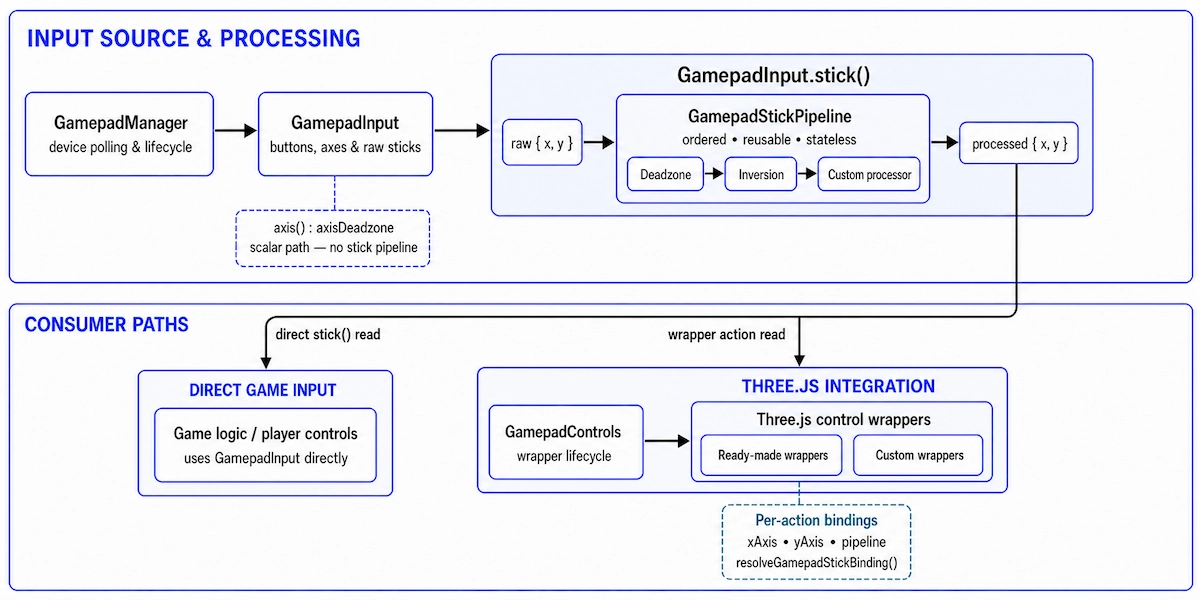
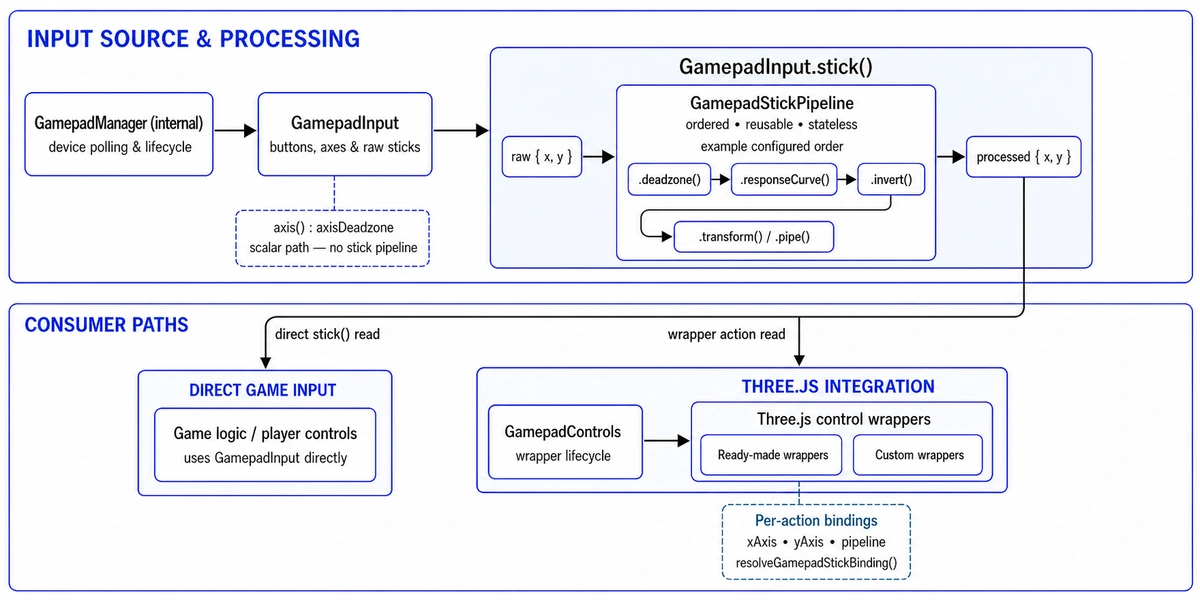
docs(readme): update architecture diagram and description

diff --git a/README.md b/README.md
@@ -9,7 +9,7 @@ Gamepad support for [Three.js](https://threejs.org) controls, built on top of [W
 
 ![Layered architecture showing the shared gamepad input foundation branching into direct application input and Three.js control integrations.](./assets/architecture-diagram.webp "Three.js Gamepad Controls layered architecture")
 
-The library is organized around a shared input foundation that handles gamepad selection, polling, button states, axes, sticks, haptics, and standard mappings. Applications can consume this input directly for gameplay, menus, and custom interactions, or use `GamepadControls` and its ready-made or custom wrappers to integrate gamepads with Three.js controls.
+The library is organized around `GamepadInput`, which owns the internal gamepad manager for selection and polling, exposes buttons, axes, sticks, haptics, and standard mappings, and processes stick reads through ordered, reusable, stateless pipelines. Applications can consume it directly for gameplay, menus, and custom interactions, or use `GamepadControls` and its ready-made or custom wrappers to integrate with Three.js. Each wrapper action resolves its own axes and pipeline.
 
 ## 📦 Installation
 
